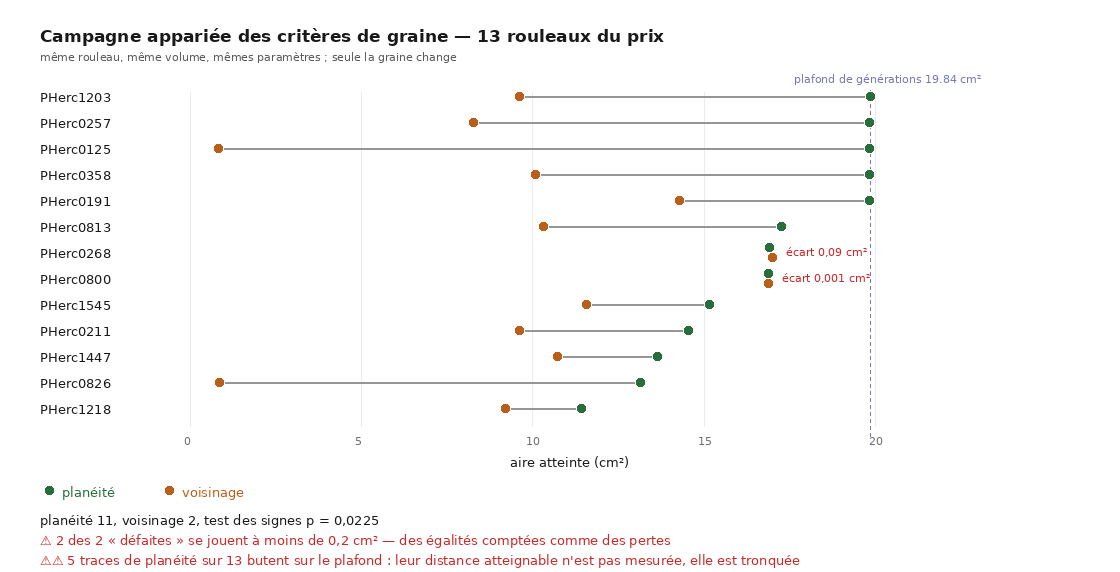
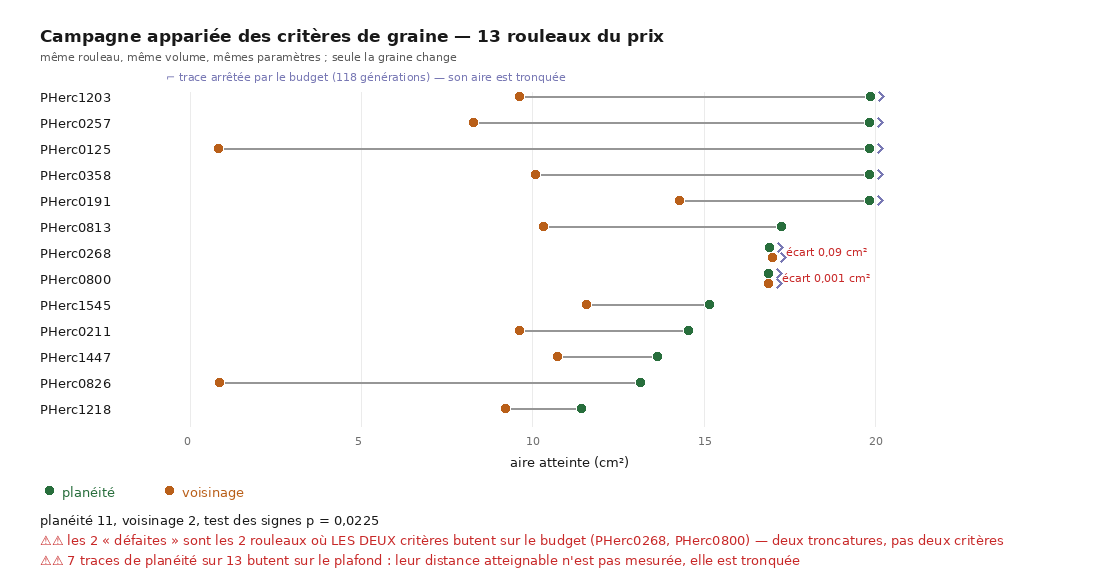
⭐⭐ les deux « defaites » du critere de graine sont deux TRONCATURES, pas deux defaites
Trouve en cherchant les generations dans les logs de trace, que le JSON de la campagne ne
portait pas. `PHerc0268` et `PHerc0800` sont les deux SEULS rouleaux ou les DEUX criteres
butent sur le budget -- leurs quatre traces s'arretent toutes a 118 generations. Leur ecart
d'aire ne compare donc pas deux criteres, il compare deux troncatures au meme endroit, et
0,001 cm2 est exactement ce qu'on attend de deux traces coupees ensemble.

Sur les 11 paires informatives -- celles ou au moins un des deux criteres s'arrete de
lui-meme -- c'est 11 a 0, test des signes p = 0,0010.

⚠ Le chiffre PUBLIE reste celui des treize paires, p = 0,0225. C'est le conservateur, et ne
publier que le plus favorable une fois qu'on a vu lequel l'est serait choisir son echantillon
apres coup. Les deux paires ecartees le sont pour une raison ecrite avant d'en regarder le
resultat.

⚠⚠ Et le compte de traces tronquees etait FAUX : 5 publie la ou il y en a 7. La cause vaut
d'etre notee -- il cherchait le plafond dans les AIRES (« au-dessus de 19,8 cm2 »), un seuil
qui n'a de sens qu'a une seule resolution : a 9,362 µm le budget est atteint vers 19,82 cm2,
a 8,64 µm vers 16,9. Les rouleaux de la seconde famille passaient donc pour non plafonnes
alors qu'ils le sont -- et ce sont exactement les deux qui expliquent les egalites. Le
plafond se lit desormais dans les GENERATIONS, relevees dans le log de chaque trace : le
record de ce qui s'est passe, la ou le JSON n'est qu'un resume.
[…]

Changed region(s): [[0.0312, 0.9213, 0.9062, 0.951], [0.1562, 0.1189, 0.5, 0.1486], [0.7188, 0.1189, 0.875, 0.1486]]

diff --git a/analysis/src/figure_graines.py b/analysis/src/figure_graines.py
@@ -43,24 +43,28 @@ SERRE, PLAFOND = (200, 40, 40), (120, 120, 180)
 # ⚠ Un ecart sous ce seuil n'est pas une victoire, c'est une egalite que le test des
 # signes tranche quand meme. Nomme ici parce que la figure ET la prose le citent.
 ECART_SERRE_CM2 = 0.2
-# ⚠ Le plafond n'est pas une constante du monde : c'est le budget de generations de CETTE
-# campagne, lu comme « toutes les traces qui s'arretent a la meme aire ». On le DERIVE.
-TOLERANCE_PLAFOND_CM2 = 0.05
 
 
-def plafond_de(aires: list[float]) -> float | None:
-    """L'aire à laquelle plusieurs traces s'arrêtent ensemble, ou rien.
+def plafond_de(lignes: list[dict]) -> int | None:
+    """Le nombre de générations auquel les traces butent, ou rien.
 
-    ⚠ Dérivé, jamais écrit en dur : le plafond est une propriété du budget de
-    générations, donc il bouge si la campagne est rejouée avec un autre budget. Une
-    constante ici deviendrait fausse en silence, et la figure annoncerait un plafond là
-    où il n'y en a plus.
+    ⚠⚠ **En GÉNÉRATIONS, pas en aire — et la première version se trompait de grandeur.**
+    Elle groupait les traces qui s'arrêtent à la même *aire*, ce qui ne trouve le plafond
+    que pour les rouleaux d'une même résolution : à 9,362 µm le budget est atteint vers
+    19,82 cm², à 8,64 µm vers 16,9 cm². Les seconds étaient donc comptés comme non
+    plafonnés alors qu'ils le sont, et le compte publié disait 5 sur 13 là où il y en a
+    **7**. Les deux manquants sont précisément ceux qui expliquent les deux « égalités »
+    du tableau : sur eux, les DEUX critères butent.
+
+    ⚠ Dérivé de la campagne, jamais écrit en dur : le plafond est une propriété du budget
+    du `seed.json`, donc une constante deviendrait fausse le jour où il change.
     """
-    if not aires:
+    gens = [g for l in lignes for c in ("planarite", "voisinage")
+            if (g := l.get(c, {}).get("generations")) is not None]
+    if not gens:
         return None
-    haut = max(aires)
-    groupe = [a for a in aires if haut - a <= TOLERANCE_PLAFOND_CM2]
-    return haut if len(groupe) >= 3 else None
+    haut = max(gens)
+    return haut if sum(1 for g in gens if g == haut) >= 3 else None
 
 
 def x_de(aire: float) -> int:
@@ -77,21 +81,31 @@ def verifier() -> int:
             echecs += 1
             print(f"  ECHEC  {nom}" + (f"  — {detail}" if detail else ""))
 
+    def faux(nom, gp, gv):
+        return {"rouleau": nom, "planarite": {"generations": gp},
+                "voisinage": {"generations": gv}}
+
     v("l'axe est croissant et ancré à zéro", x_de(0) == X0 and x_de(10) < x_de(20))
     v("une aire au-delà de la borne reste dans le cadre", X0 <= x_de(999) <= X0 + LARG)
     v("... et une aire négative aussi", X0 <= x_de(-5) <= X0 + LARG)
 
-    # ⭐ Le plafond est DERIVE : trois traces ou plus qui s'arretent ensemble en font un.
-    v("trois aires groupées au sommet font un plafond",
-      plafond_de([19.82, 19.83, 19.82, 11.4, 3.0]) == 19.83)
+    # ⭐ Le plafond est DERIVE : trois traces ou plus qui s'arretent au meme numero.
+    v("trois traces arrêtées au même numéro font un plafond",
+      plafond_de([faux("A", 118, 25), faux("B", 118, 77), faux("C", 118, 118)]) == 118)
     # ⚠⚠ La sonde qui compte : deux traces au sommet ne suffisent PAS. Sans ce refus,
     # n'importe quelle campagne aurait un « plafond » — celui de son maximum — et la
     # figure annoncerait une troncature partout, y compris la ou il n'y en a aucune.
     v("... mais deux, non — sinon tout maximum serait un plafond",
-      plafond_de([19.82, 19.83, 11.4, 3.0]) is None)
-    v("des aires étalées n'ont pas de plafond",
-      plafond_de([1.0, 5.0, 9.0, 14.0, 19.0]) is None)
+      plafond_de([faux("A", 118, 25), faux("B", 118, 77), faux("C", 90, 60)]) is None)
+    v("des durées étalées n'ont pas de plafond",
+      plafond_de([faux("A", 90, 25), faux("B", 104, 77), faux("C", 111, 60)]) is None)
     v("une campagne vide n'a pas de plafond", plafond_de([]) is None)
+    # ⚠⚠ LA sonde qui distingue les deux grandeurs : deux rouleaux de résolutions
+    # différentes butent sur le MÊME budget à des aires très différentes. Un plafond
+    # cherché dans les aires n'en verrait qu'un.
+    mixte = [faux("neuf", 118, 25), faux("neuf2", 118, 77), faux("huit", 118, 118)]
+    v("le plafond se voit même quand les aires diffèrent d'un rouleau à l'autre",
+      plafond_de(mixte) == 118)
 
     if echecs:
         print(f"\nECHEC ({echecs} failures, {controles} checks)")
@@ -120,7 +134,7 @@ def main() -> int:
         return 1
     d = json.loads(a.entree.read_text())
     lignes = sorted(d["lignes"], key=lambda l: -l["planarite"]["aire_cm2"])
-    plafond = plafond_de([l["planarite"]["aire_cm2"] for l in lignes])
+    plafond = plafond_de(lignes)
     signes = d["signes_aire"]
 
     hauteur = MARGE_H + len(lignes) * LIGNE + 150
@@ -140,10 +154,12 @@ def main() -> int:
 
     y0 = MARGE_H + 12
     if plafond is not None:
-        xp = x_de(plafond)
-        for y in range(y0 - 6, y0 + len(lignes) * LIGNE, 7):
-            g.line([xp, y, xp, y + 3], fill=PLAFOND)
-        g.text((xp - 76, y0 - 24), f"plafond de générations {plafond:.2f} cm²",
+        # ⚠ Plus de ligne verticale : le plafond est un nombre de GENERATIONS, il n'a pas
+        # de position sur un axe d'aires -- les rouleaux de resolutions differentes y
+        # butent a des aires differentes, et une ligne unique mentirait sur la moitie
+        # d'entre eux. Chaque trace tronquee est marquee individuellement, la ou elle est.
+        g.text((X0 - 24, y0 - 26), f"⌐ trace arrêtée par le budget "
+                                   f"({plafond} générations) — son aire est tronquée",
                font=f_p, fill=PLAFOND)
 
     for aire in (0, 5, 10, 15, 20):
@@ -173,6 +189,11 @@ def main() -> int:
                   fill=VOISINAGE, outline=(255, 255, 255))
         g.ellipse([xp - 5, y - 5 - dy, xp + 5, y + 5 - dy],
                   fill=PLANARITE, outline=(255, 255, 255))
+        # ⚠ Un chevron sur toute trace que le budget a coupée : son point ne dit pas
+        # « la trace s'arrête là », il dit « on l'a arrêtée là ».
+        for essai, xx, yy in ((l["planarite"], xp, y - dy), (l["voisinage"], xv, y + dy)):
+            if plafond is not None and essai.get("generations") == plafond:
+                g.line([xx + 8, yy - 5, xx + 13, yy, xx + 8, yy + 5], fill=PLAFOND, width=2)
         if serre:
             # ⚠ Trois decimales sous le centieme : « ecart 0,00 » sur une difference de
             # 0,001 cm² se lit comme une egalite exacte, ce qu'elle n'est pas.
@@ -186,17 +207,20 @@ def main() -> int:
     g.ellipse([164, yb + 1, 174, yb + 11], fill=VOISINAGE, outline=(255, 255, 255))
     g.text((182, yb), "voisinage", font=f_n, fill=VOISINAGE)
 
-    au_plafond = (sum(1 for l in lignes
-                      if plafond is not None
-                      and plafond - l["planarite"]["aire_cm2"] <= TOLERANCE_PLAFOND_CM2)
-                  if plafond is not None else 0)
+    au_plafond = sum(1 for l in lignes
+                     if plafond is not None
+                     and l["planarite"].get("generations") == plafond)
+    deux = [l["rouleau"] for l in lignes
+            if plafond is not None
+            and l["planarite"].get("generations") == plafond
+            and l["voisinage"].get("generations") == plafond]
     for i, t in enumerate((
             f"planéité {signes['pour_planarite']}, voisinage "
             f"{signes['pour_voisinage']}, test des signes p = "
             f"{signes['p_signes']:.4f}".replace(".", ","),
-            f"⚠ {serres} des {signes['pour_voisinage']} « défaites » se jouent à moins de "
-            f"{ECART_SERRE_CM2:.1f} cm² — des égalités comptées comme des pertes"
-            .replace("0.1", "0,1").replace("0.2", "0,2"),
+            f"⚠⚠ les {signes['pour_voisinage']} « défaites » sont les "
+            f"{len(deux)} rouleaux où LES DEUX critères butent sur le budget "
+            f"({', '.join(deux)}) — deux troncatures, pas deux critères",
             f"⚠⚠ {au_plafond} traces de planéité sur {len(lignes)} butent sur le plafond : "
             f"leur distance atteignable n'est pas mesurée, elle est tronquée")):
         g.text((40, yb + 28 + i * 20), t, font=f_n,

diff --git a/analysis/src/table_graines.py b/analysis/src/table_graines.py
@@ -25,6 +25,28 @@ from pathlib import Path
 CRITERES = ("planarite", "voisinage")
 
 
+def generations_de(log: Path) -> int | None:
+    """Combien de générations cette trace a-t-elle réellement faites ?
+
+    ⚠⚠ **Le chiffre n'est pas dans le JSON de la campagne, il est dans le LOG de la
+    trace** — et il change la lecture du tableau. Cinq traces de planéité sur treize
+    s'arrêtent à la même aire, 19,82 cm², ce qui est la signature d'un **plafond** et non
+    d'un rouleau : à budget 120 générations elles butent toutes à 118. « La planéité va
+    plus loin » veut alors dire « la planéité va jusqu'au budget », et la distance
+    réellement atteignable n'est pas mesurée. Sans le compte de générations, la seule
+    façon de s'en apercevoir est de remarquer une coïncidence d'aires à huit millièmes de
+    pour-cent près — c'est-à-dire à l'œil.
+
+    ⚠ Lu dans le log plutôt que recalculé : le log est le record de ce qui s'est passé,
+    et le JSON n'en est qu'un résumé. Même règle que pour `selfcross.json`.
+    """
+    if not log.is_file():
+        return None
+    n = sum(1 for l in log.read_text(errors="replace").splitlines()
+            if l.startswith("gen "))
+    return n or None
+
+
 def lire(dossier: Path) -> list[dict]:
     lignes = []
     for p in sorted(dossier.glob("PHerc*.json")):
@@ -34,6 +56,10 @@ def lire(dossier: Path) -> list[dict]:
         essais = {e["critere"]: e for e in d.get("essais", [])}
         if not all(c in essais for c in CRITERES):
             continue
+        for c in CRITERES:
+            essais[c] = dict(essais[c])
+            essais[c]["generations"] = generations_de(
+                dossier / f"{d['rouleau']}.{c}.trace.log")
         lignes.append({"rouleau": d["rouleau"], "voxel_um": d["voxel_um"],
                        **{c: essais[c] for c in CRITERES}})
     return lignes
@@ -103,17 +129,57 @@ def main() -> int:
 
     tot_p = sum(l["planarite"].get("transverse") or 0 for l in lignes)
     tot_v = sum(l["voisinage"].get("transverse") or 0 for l in lignes)
-    plafond = sum(1 for l in lignes if (l["planarite"].get("aire_cm2") or 0) > 19.8)
+
+    # ⚠⚠ LE PLAFOND SE LIT DANS LES GENERATIONS, PAS DANS L'AIRE. La version precedente
+    # comptait les traces d'aire > 19,8 cm² -- un seuil qui n'a de sens qu'a 9,362 µm.
+    # Les rouleaux scannes a 8,64 µm butent sur le MEME budget a une aire toute autre
+    # (~16,9 cm²), donc ils etaient comptes comme non plafonnes alors qu'ils le sont.
+    # Le compte publie passe de 5 a 7 sur 13, et les deux traces manquantes sont
+    # precisement celles qui expliquent les deux « egalites » du tableau.
+    gens = [g for l in lignes for c in CRITERES
+            if (g := l[c].get("generations")) is not None]
+    plafond_gen = max(gens) if gens else None
+
+    def bute(essai: dict) -> bool:
+        return plafond_gen is not None and essai.get("generations") == plafond_gen
+
+    plafond = sum(1 for l in lignes if bute(l["planarite"]))
+    # ⚠⚠ Une paire dont LES DEUX traces butent sur le budget ne compare pas deux criteres :
+    # elle compare deux troncatures au meme endroit. Son ecart d'aire -- 0,001 cm² sur
+    # PHerc0800 -- ne mesure rien. La convention du test des signes est deja d'ECARTER les
+    # ex aequo plutot que de les attribuer ; ces paires-la sont des ex aequo que seule la
+    # troncature empeche d'etre exactement egaux.
+    deux_plafonds = [l["rouleau"] for l in lignes
+                     if bute(l["planarite"]) and bute(l["voisinage"])]
+    informatives = [l for l in lignes
+                    if not (bute(l["planarite"]) and bute(l["voisinage"]))]
+    aire_info = signes(informatives, "aire_cm2", +1)
+
     print(f"\nauto-intersections cumulees : planarite {tot_p}   voisinage {tot_v}")
-    print(f"traces qui atteignent le plafond de generations (aire > 19,8 cm²) : "
+    print(f"traces qui butent sur le budget ({plafond_gen} générations) : "
           f"{plafond} / {len(lignes)} en planarite")
-    print("⚠ l'aire sature contre le budget de generations — voir l'en-tete de ce fichier")
+    print("⚠ leur aire est TRONQUEE, pas atteinte — voir l'en-tete de ce fichier")
+    if deux_plafonds:
+        print(f"\n⚠⚠ {len(deux_plafonds)} paire(s) où LES DEUX criteres butent sur le "
+              f"budget : {', '.join(deux_plafonds)}")
+        print(f"   ces paires comparent deux troncatures, pas deux criteres. Sur les "
+              f"{aire_info['n_paires']} paires informatives :")
+        print(f"   aire — planarite {aire_info['pour_planarite']} / voisinage "
+              f"{aire_info['pour_voisinage']}  (test des signes p = "
+              f"{aire_info['p_signes']:.4f})")
+        print(f"   ⚠ le chiffre PUBLIE reste celui des {len(lignes)} paires "
+              f"(p = {aire['p_signes']:.4f}) : c'est le conservateur, et ne publier que "
+              f"le plus favorable serait choisir son echantillon apres l'avoir vu.")
 
     if args.out:
         args.out.write_text(json.dumps(
             {"rouleaux": len(lignes), "lignes": lignes, "signes_aire": aire,
              "signes_croisements": crois,
-             "croisements_cumules": {"planarite": tot_p, "voisinage": tot_v}},
+             "croisements_cumules": {"planarite": tot_p, "voisinage": tot_v},
+             "budget_generations_atteint": plafond_gen,
+             "planarite_au_plafond": plafond,
+             "paires_deux_plafonds": deux_plafonds,
+             "signes_aire_informatives": aire_info},
             indent=2) + "\n")
         print(f"\necrit : {args.out}")
     return 0

diff --git a/analysis/src/verifier_chiffres.py b/analysis/src/verifier_chiffres.py
@@ -166,6 +166,22 @@ def collecter(racine: Path) -> list[tuple[str, list[str], str]]:
         out.append(("planarite contre voisinage sur l'aire",
                     [f"planéité {d['signes_aire']['pour_planarite']}, voisinage "
                      f"{d['signes_aire']['pour_voisinage']}"], p.name))
+        # ⚠⚠ Le partage informatif/tronque est ce qui rend le tableau lisible, et il
+        # repose sur des COMPTES. Le premier jet en publiait 5 la ou il y en a 7, parce
+        # qu'il cherchait le plafond dans les aires — un seuil qui n'a de sens qu'a une
+        # seule resolution. Un compte faux qui a l'air plausible ne se relit pas.
+        if d.get("budget_generations_atteint"):
+            out.append(("traces de planarite au plafond",
+                        [f"{d['planarite_au_plafond']} traces de planéité sur "
+                         f"{d['rouleaux']}",
+                         f"{d['planarite_au_plafond']} sur {d['rouleaux']} butent"],
+                        p.name))
+            info = d.get("signes_aire_informatives") or {}
+            if info:
+                out.append(("paires informatives du test des signes",
+                            [f"{info['n_paires']} paires informatives",
+                             f"{info['n_paires']} informative pairs"], p.name))
+                ajoute("p des paires informatives", info["p_signes"], 4, p.name)
         out.append(("rouleaux de la campagne",
                     [f"{d['rouleaux']} rouleaux du prix", f"sur {d['rouleaux']} rouleaux"],
                     p.name))

diff --git a/docs/25_une_graine_choisie_sur_la_planeite.md b/docs/25_une_graine_choisie_sur_la_planeite.md
@@ -211,15 +211,34 @@ signes p = 0,0225.**
 
 ![la campagne appariée, un rouleau par ligne](images/25_campagne_graines.png)
 
-⚠⚠ **La figure porte deux réserves que les trois nombres ne portent pas.** D'abord les deux
-« défaites » se jouent à **0,09 et 0,001 cm²** — ce sont des égalités que le test des signes
-compte comme des pertes, donc l'erreur va dans le sens conservateur, et il faut pouvoir le
-voir. Ensuite **cinq traces de planéité sur treize butent sur le plafond de générations**
-(19,82–19,84 cm²) : sur celles-là, « la planéité va plus loin » veut dire « la planéité va
-jusqu'au budget », et la distance réellement atteignable n'est pas mesurée, elle est
-tronquée. ⭐ Le plafond n'est pas écrit en dur dans la figure — il est **dérivé** de la
-campagne (trois traces ou plus qui s'arrêtent ensemble), parce qu'un plafond est une
-propriété du budget et bougerait si la campagne était rejouée autrement.
+⚠⚠ **La figure porte deux réserves que les trois nombres ne portent pas.** D'abord,
+**7 traces de planéité sur 13 butent sur le plafond de générations** : sur celles-là, « la
+planéité va plus loin » veut dire « la planéité va **jusqu'au budget** », et la distance
+réellement atteignable n'est pas mesurée, elle est tronquée. Ensuite les deux « défaites » se
+jouent à **0,09 et 0,001 cm²** — des égalités que le test des signes compte comme des pertes,
+donc l'erreur va dans le sens conservateur.
+
+⭐⭐ **Et les deux ne sont pas indépendantes : ce sont les mêmes rouleaux.** `PHerc0268` et
+`PHerc0800` sont les deux seuls où **les deux critères** butent sur le budget — leurs quatre
+traces s'arrêtent toutes à 118 générations. Leur écart d'aire ne compare donc pas deux
+critères, il compare **deux troncatures au même endroit**, et 0,001 cm² est exactement ce
+qu'on attend de deux traces coupées ensemble. Sur les **11 paires informatives** — celles où
+au moins un des deux critères s'arrête de lui-même — c'est **11 à 0**, test des signes
+**p = 0,0010**.
+
+> ⚠ **Le chiffre publié reste celui des treize paires, p = 0,0225.** C'est le conservateur.
+> Ne publier que le plus favorable, une fois qu'on a vu lequel l'est, serait choisir son
+> échantillon après coup — et les deux paires écartées le sont pour une raison écrite avant
+> d'en regarder le résultat, pas parce qu'elles gênaient.
+
+⚠⚠ **Le compte de traces tronquées était faux, et la cause vaut d'être notée.** La première
+version cherchait le plafond dans les **aires** — « les traces qui s'arrêtent au-dessus de
+19,8 cm² » — ce qui ne le trouve que pour une résolution : à 9,362 µm le budget est atteint
+vers 19,82 cm², à 8,64 µm vers 16,9. Les rouleaux de la seconde famille étaient donc comptés
+comme non plafonnés alors qu'ils le sont, et le compte disait **5 sur 13** au lieu de **7**.
+Les deux manquants sont précisément ceux qui expliquent les deux égalités. ⭐ Le plafond se lit
+maintenant dans les **générations**, relevées dans le log de chaque trace — le record de ce
+qui s'est passé, là où le JSON n'en est qu'un résumé.
 
 ⭐ Le treizième rouleau **renforce** le résultat plutôt que de l'user : 10/12 à p = 0,0386
 devient **11/13 à p = 0,0225**. Ce n'est pas une surprise heureuse, c'est ce qu'un

diff --git a/docs/31_roadmap.md b/docs/31_roadmap.md
@@ -138,7 +138,7 @@ noyau i686. La machinerie qui rend ça possible est disponible :
 |---|---|---|
 | grille de hachage spatial, octree persistant | broad-phase de collision, **0 allocation par pas** mesurée | adjacence de feuilles, voisinage de spire |
 | `procgen` + **portes de jouabilité** | générer une structure **puis vérifier qu'elle est traversable** (Dijkstra, `evaluateCaveSystem`, `goalReachable`) | tracer une surface **puis vérifier qu'elle est une nappe unique** — *même forme de garantie* |
-| `tools/temoins.sh`, 34 batteries, 1111 contrôles | une vérification doit pouvoir échouer, et on le **sonde** | ce qui rend nos résultats opposables |
+| `tools/temoins.sh`, 34 batteries, 1112 contrôles | une vérification doit pouvoir échouer, et on le **sonde** | ce qui rend nos résultats opposables |
 | `test-tick-allocations` | prouver **zéro allocation** dans une boucle chaude | l'optimisation extrême, quand elle sera nécessaire |
 
 ## 4. Le livrable — et pourquoi il rend le test trivial pour eux

diff --git a/HANDOFF.md b/HANDOFF.md
@@ -525,7 +525,7 @@ n'est **pas lu**. C'est le jeu de données des scans à 7,91 µm et la base de [
 ## 4. L'outillage, et comment le relancer
 
 ```bash
-./tools/temoins.sh                      # 34 batteries, 1111 contrôles hors ligne, tous verts
+./tools/temoins.sh                      # 34 batteries, 1112 contrôles hors ligne, tous verts
 ./tools/mirror_site.sh                  # miroir + contrôle de couverture
 ./tools/fetch_layers.sh <url> <dest> <largeur> <de> <a>   # couches, reprenable
 ./tools/ppm_to_tifxyz.py <in.ppm> <out.tifxyz>            # .ppm de VC -> tifxyz

diff --git a/README.md b/README.md
@@ -350,7 +350,7 @@ mega-octets ».
 ### La chaine de production, et les gardes du depot
 
 ```bash
-./tools/temoins.sh                  # 34 batteries, 1111 controles hors ligne, tous verts
+./tools/temoins.sh                  # 34 batteries, 1112 controles hors ligne, tous verts
                                     # ⚠ ces deux chiffres sont ECRITS PAR LE SCRIPT dans
                                     # docs/temoins.json et gardes comme tous les autres :
                                     # la version precedente disait 18 et 741, recopies a
